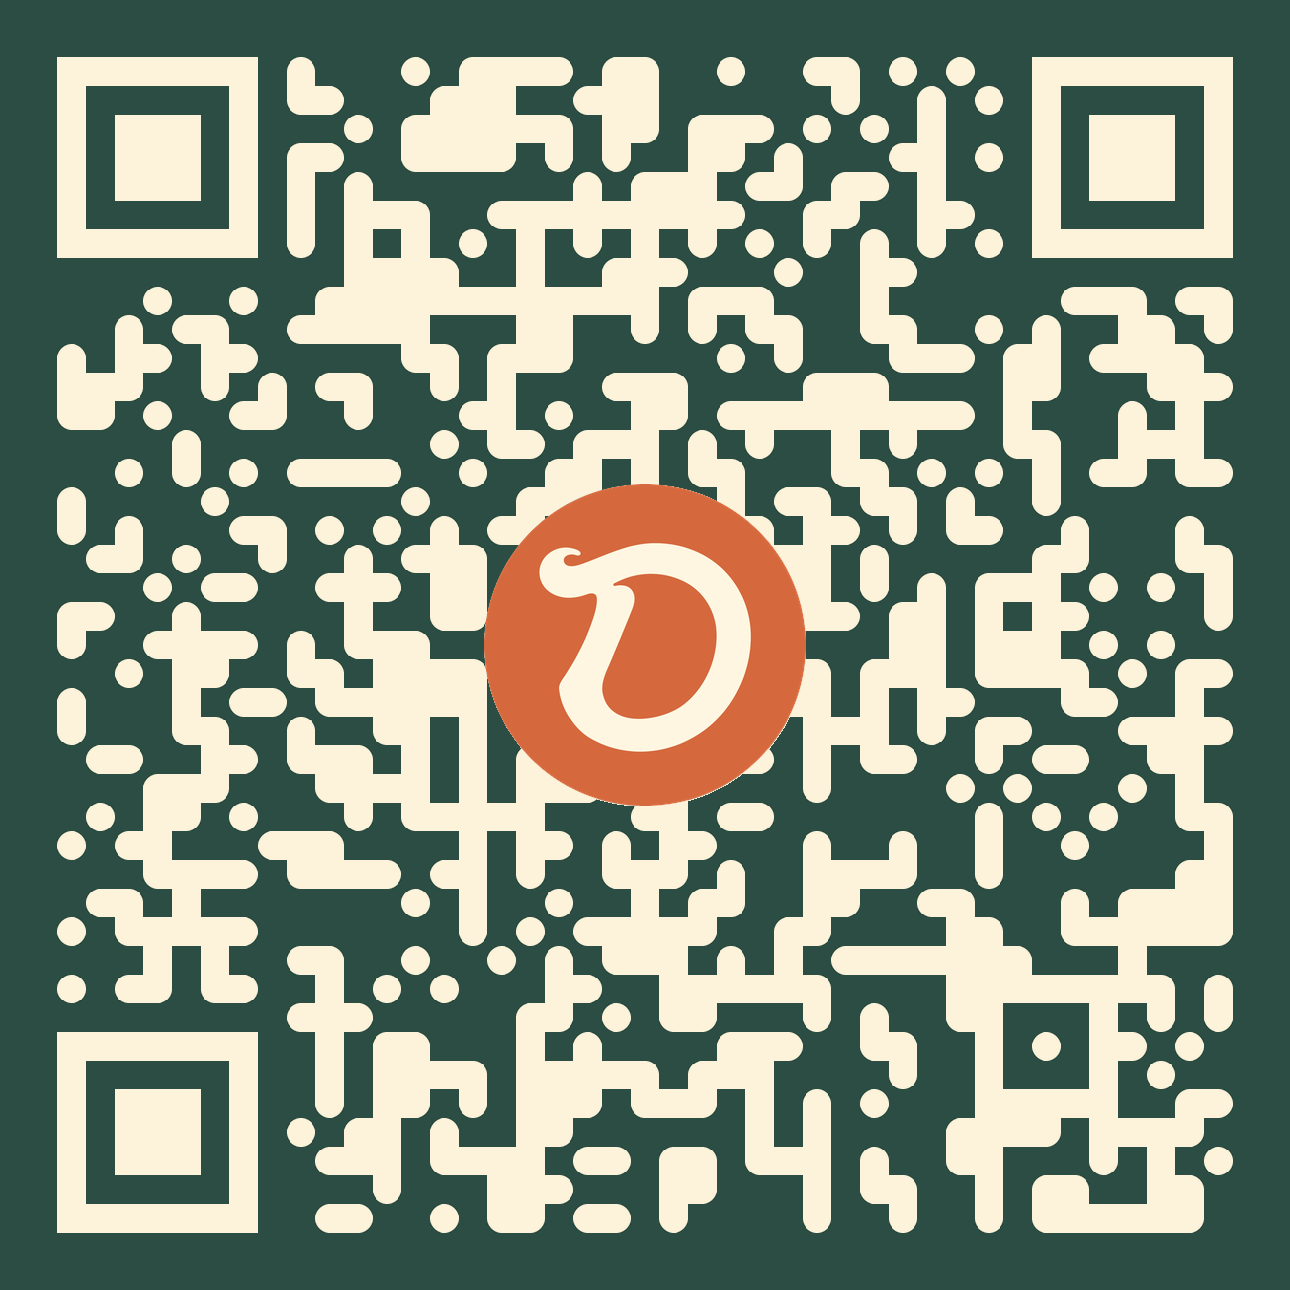
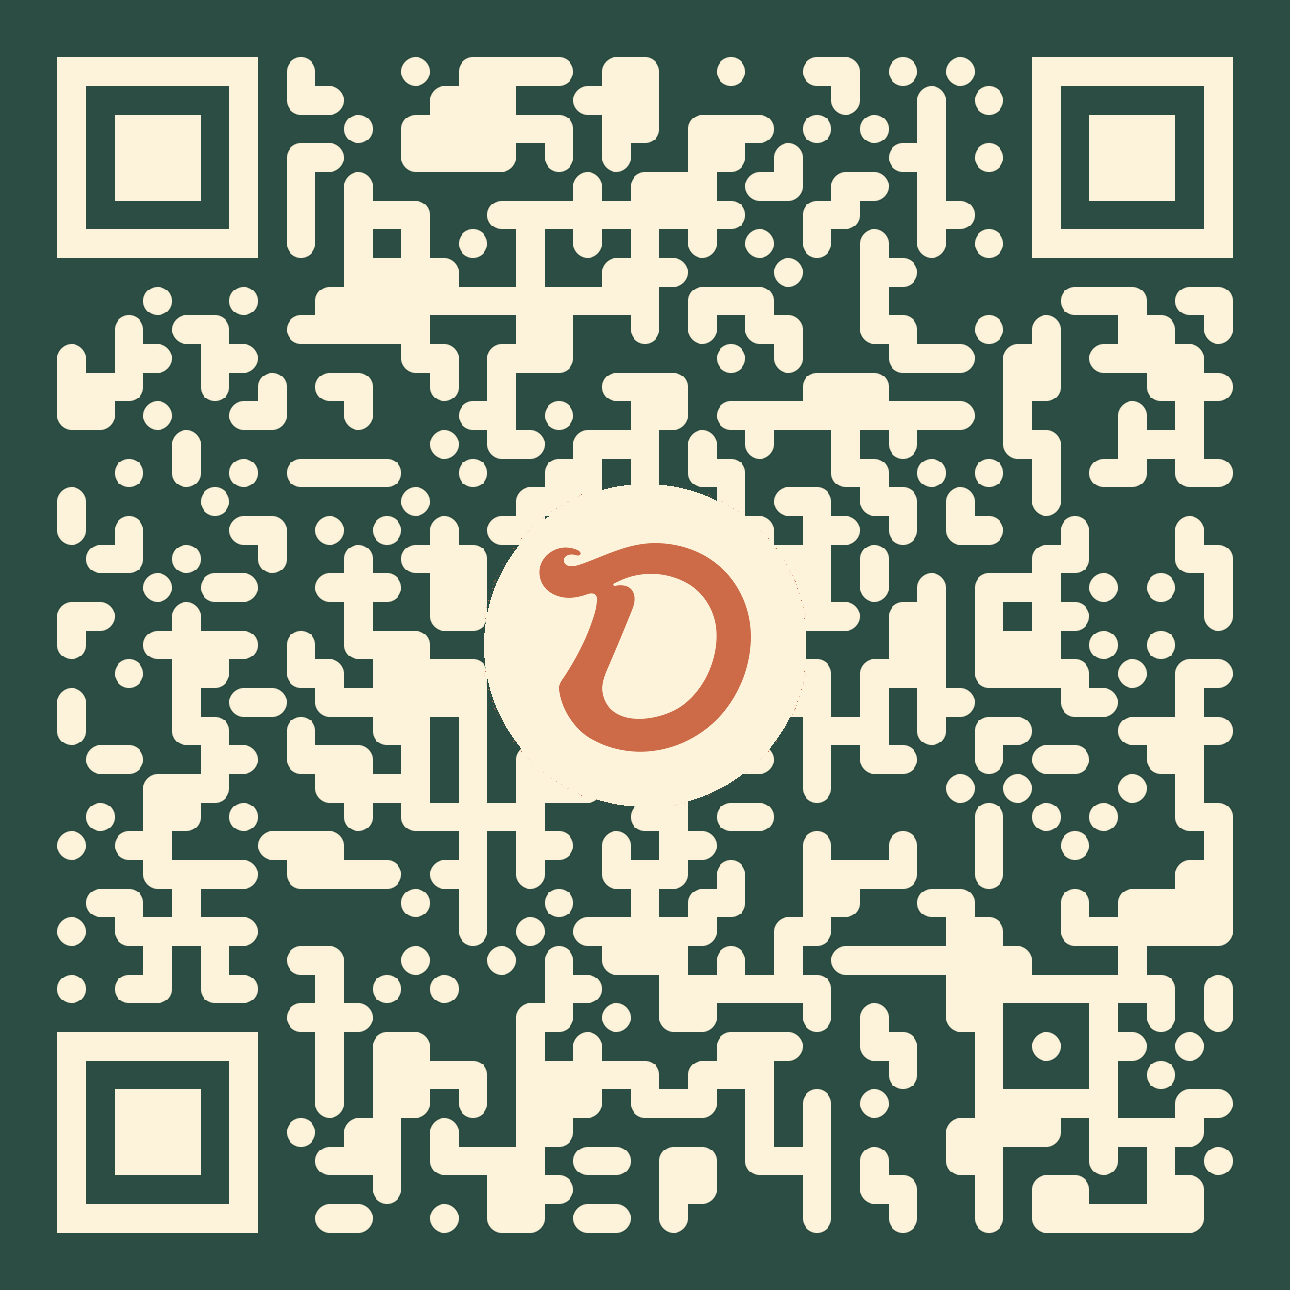
style: revert to completely solid cream circle with crisp inverted D color

Changed region(s): [[0.3721, 0.3721, 0.6512, 0.6512]]

diff --git a/fidi/index.html b/fidi/index.html
@@ -1,0 +1,15 @@
+<!DOCTYPE html>
+<html>
+  <head>
+    <meta charset="utf-8">
+    <title>Redirecting to Dankley Financial District Store...</title>
+    <!-- Redirect to FiDi store -->
+    <meta http-equiv="refresh" content="0; url=https://dankley.com/fidi-store/">
+  </head>
+  <body>
+    <p>Redirecting you to the Dankley Financial District Store...</p>
+    <script>
+      window.location.href = "https://dankley.com/fidi-store/";
+    </script>
+  </body>
+</html>

diff --git a/generate_qr.py b/generate_qr.py
@@ -1,0 +1,131 @@
+import os
+import qrcode
+from PIL import Image, ImageDraw
+from qrcode.image.styledpil import StyledPilImage
+from qrcode.image.styles.moduledrawers import RoundedModuleDrawer
+from qrcode.image.styles.colormasks import SolidFillColorMask
+
+# Configuration
+STORE_URL = "https://dankley-queensqr.vercel.app"
+FIDI_URL = "https://dankley-queensqr.vercel.app/fidi"
+EVENTS_URL = "https://dankley-queensqr.vercel.app/events"
+CONSULTATION_URL = "https://dankley-queensqr.vercel.app/consultation"
+DIRECTIONS_URL = "https://dankley-queensqr.vercel.app/directions"
+
+# Brand Colors & Logos
+CREAM_COLOR = "#fcf3da"
+
+COLORS = {
+    "Dark_Green": {
+        "back_color": "#2c4d43", # Dark Green background
+        "fill_color": CREAM_COLOR, # Cream pixels
+        "logo_file": "logo_terracotta.png", # Original mask source
+        "d_color": "#cd6b48" # Terracotta D
+    },
+    "Terracotta": {
+        "back_color": "#cd6b48", # Terracotta background
+        "fill_color": CREAM_COLOR, # Cream pixels
+        "logo_file": "logo_dark_green.png", # Original mask source
+        "d_color": "#2c4d43" # Dark Green D
+    }
+}
+
+OUTPUT_DIRS = {
+    "events": "qr assets/queens_events",
+    "store": "qr assets/queens_store",
+    "fidi": "qr assets/fidi_store",
+    "consultation": "qr assets/queens_consultation",
+    "directions": "qr assets/queens_directions"
+}
+
+def hex_to_rgb(hex_color):
+    hex_color = hex_color.lstrip('#')
+    return tuple(int(hex_color[i:i+2], 16) for i in (0, 2, 4))
+
+def generate_qr(url, filename, fill_color, back_color, logo_file, d_color):
+    """Generates a high-res QR code with correct colors and an embedded logo on a solid cream circle."""
+    qr = qrcode.QRCode(
+        version=4, 
+        error_correction=qrcode.constants.ERROR_CORRECT_H,
+        box_size=30,
+        border=2,
+    )
+    qr.add_data(url)
+    qr.make(fit=True)
+
+    # Generate QR code image with specified colors and rounded styling
+    img = qr.make_image(
+        image_factory=StyledPilImage,
+        module_drawer=RoundedModuleDrawer(),
+        color_mask=SolidFillColorMask(
+            back_color=hex_to_rgb(back_color), 
+            front_color=hex_to_rgb(fill_color)
+        )
+    ).convert("RGBA")
+    img = img.resize((1290, 1290), Image.Resampling.NEAREST)
+
+    if os.path.exists(logo_file):
+        logo = Image.open(logo_file).convert("RGBA")
+        logo_size = int(1290 * 0.25)
+        logo = logo.resize((logo_size, logo_size), Image.Resampling.LANCZOS)
+        
+        # Create an alpha mask of the 'D' shape from the logo
+        gray = logo.convert("L")
+        d_mask = gray.point(lambda p: 0 if p < 150 else (255 if p > 220 else int((p - 150) * (255.0 / 70.0))))
+        
+        # 1. Create a pure circular alpha mask for the background circle
+        circle_mask = Image.new("L", (logo_size, logo_size), 0)
+        draw = ImageDraw.Draw(circle_mask)
+        draw.ellipse((0, 0, logo_size, logo_size), fill=255)
+        
+        # 2. Create a solid Cream square image
+        cream_bg = Image.new("RGBA", (logo_size, logo_size), hex_to_rgb(CREAM_COLOR) + (255,))
+        
+        # 3. Paste the solid Cream circle onto the QR code
+        pos = ((img.size[0] - logo_size) // 2, (img.size[1] - logo_size) // 2)
+        img.paste(cream_bg, pos, mask=circle_mask)
+        
+        # 4. Create a solid square image using the exact color intended for the 'D' 
+        d_color_bg = Image.new("RGBA", (logo_size, logo_size), hex_to_rgb(d_color) + (255,))
+        
+        # 5. Paste the solid colored 'D' onto the QR code exactly over the cream circle
+        img.paste(d_color_bg, pos, mask=d_mask)
+
+    img.save(filename, "PNG")
+    print(f"Generated Inverted Color QR: {filename}")
+
+def main():
+    print("Initializing Dankley Premium QR Code Generator...")
+
+    for d in OUTPUT_DIRS.values():
+        os.makedirs(d, exist_ok=True)
+
+    print("\n--- Generating Store QR Codes ---")
+    for color_name, palette in COLORS.items():
+        filename = os.path.join(OUTPUT_DIRS["store"], f"QUEENS_STORE_QR_{color_name}.png")
+        generate_qr(STORE_URL, filename, palette["fill_color"], palette["back_color"], palette["logo_file"], palette["d_color"])
+
+    print("\n--- Generating FiDi Store QR Codes ---")
+    for color_name, palette in COLORS.items():
+        filename = os.path.join(OUTPUT_DIRS["fidi"], f"FIDI_STORE_QR_{color_name}.png")
+        generate_qr(FIDI_URL, filename, palette["fill_color"], palette["back_color"], palette["logo_file"], palette["d_color"])
+
+    print("\n--- Generating Events QR Codes ---")
+    for color_name, palette in COLORS.items():
+        filename = os.path.join(OUTPUT_DIRS["events"], f"QUEENS_EVENTS_QR_{color_name}.png")
+        generate_qr(EVENTS_URL, filename, palette["fill_color"], palette["back_color"], palette["logo_file"], palette["d_color"])
+
+    print("\n--- Generating Consultation QR Codes ---")
+    for color_name, palette in COLORS.items():
+        filename = os.path.join(OUTPUT_DIRS["consultation"], f"QUEENS_CONSULTATION_QR_{color_name}.png")
+        generate_qr(CONSULTATION_URL, filename, palette["fill_color"], palette["back_color"], palette["logo_file"], palette["d_color"])
+
+    print("\n--- Generating Directions QR Codes ---")
+    for color_name, palette in COLORS.items():
+        filename = os.path.join(OUTPUT_DIRS["directions"], f"QUEENS_DIRECTIONS_QR_{color_name}.png")
+        generate_qr(DIRECTIONS_URL, filename, palette["fill_color"], palette["back_color"], palette["logo_file"], palette["d_color"])
+
+    print("\nAll premium QR codes successfully generated in the 'qr assets' folder!")
+
+if __name__ == "__main__":
+    main()

diff --git a/analyze.py b/analyze.py
@@ -1,0 +1,19 @@
+import collections
+from PIL import Image
+
+def get_top_colors(image_path):
+    img = Image.open(image_path).convert("RGBA")
+    colors = img.getcolors(maxcolors=100000)
+    
+    # Sort by count (descending)
+    sorted_colors = sorted(colors, key=lambda x: x[0], reverse=True)
+    
+    print(f"\nTop colors in {image_path}:")
+    for count, color in sorted_colors[:5]:
+        hex_color = '#{:02x}{:02x}{:02x}'.format(color[0], color[1], color[2])
+        print(f"  {hex_color} (Alpha: {color[3]}) - Count: {count}")
+
+get_top_colors('C:/Users/rockn/OneDrive/Desktop/Dk_queens/QR_codes/qr assets/queens_events/QUEENS_EVENTS_QR_Dark_Green.png')
+get_top_colors('C:/Users/rockn/OneDrive/Desktop/Dk_queens/QR_codes/qr assets/queens_events/QUEENS_EVENTS_QR_Terracotta.png')
+
+

diff --git a/crop_logo.py b/crop_logo.py
@@ -1,0 +1,17 @@
+from PIL import Image
+
+# Open the original QR code
+img = Image.open('qr assets/queens_events/QUEENS_EVENTS_QR_Dark_Green.png')
+w, h = img.size
+
+# A QR code logo is typically in the center. 
+# Let's crop the center 25% of the image to see if we get the logo
+crop_size = int(w * 0.25) 
+left = (w - crop_size) // 2
+top = (h - crop_size) // 2
+right = (w + crop_size) // 2
+bottom = (h + crop_size) // 2
+
+logo = img.crop((left, top, right, bottom))
+logo.save('logo_cropped.png')
+print(f"Cropped logo saved as logo_cropped.png with size {logo.size}")
